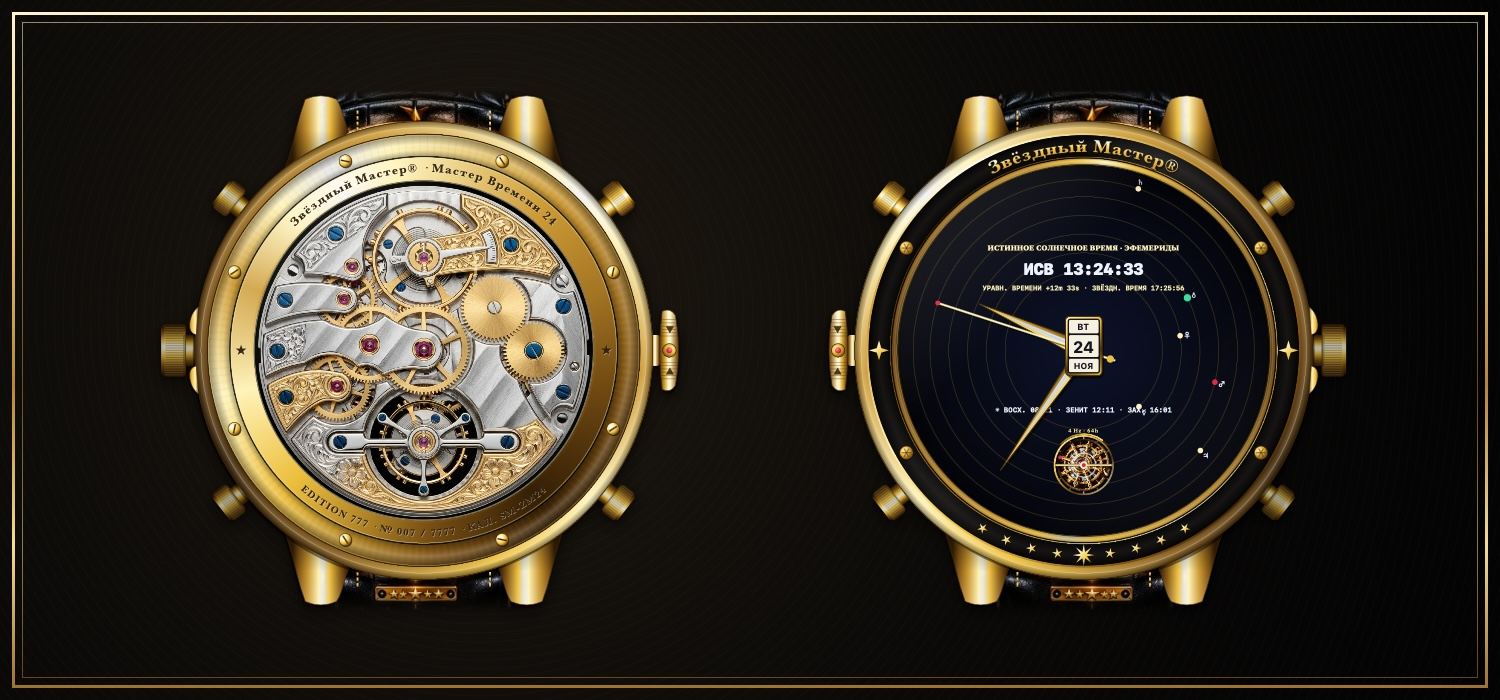
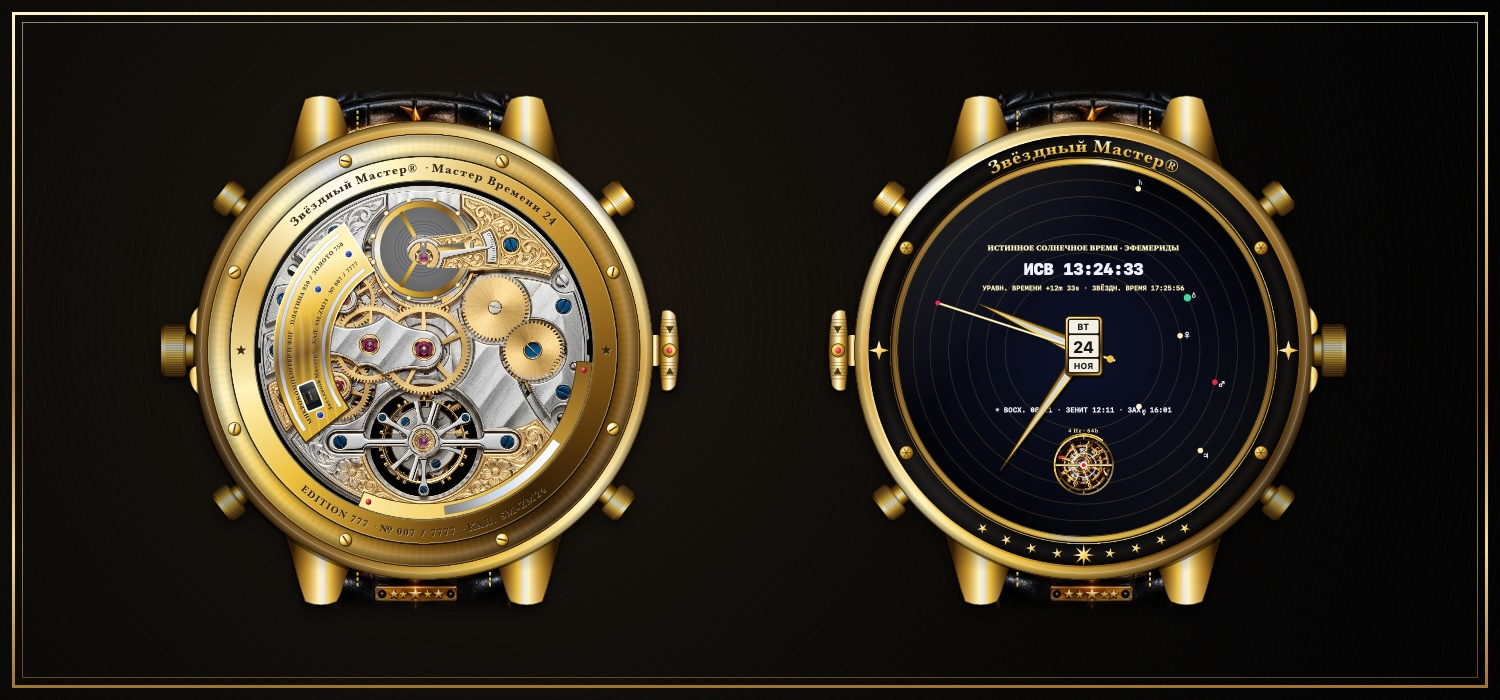
feat: v2.8.2 (Build 36) – living self-winding movement, microcomputer plate, flip with case depth

Changed region(s): [[0.184, 0.27, 0.3987, 0.75]]

diff --git a/README.ru.md b/README.ru.md
@@ -8,7 +8,7 @@
 <h3 align="center"><i>24-часовые аналоговые гибридные часы</i> · Часы гиперлюкс-класса для рабочего стола macOS</h3>
 
 <p align="center">
-  <a href="https://github.com/SonnerStudio/SternenMeister-ZeitMeister24-Widget/releases/latest/download/Zeitmeister24-Widget-macOS.zip"><img src="https://img.shields.io/badge/Скачать-v2.8.1-d4af37?style=for-the-badge&labelColor=0b0a08" alt="Скачать"></a>
+  <a href="https://github.com/SonnerStudio/SternenMeister-ZeitMeister24-Widget/releases/latest/download/Zeitmeister24-Widget-macOS.zip"><img src="https://img.shields.io/badge/Скачать-v2.8.2-d4af37?style=for-the-badge&labelColor=0b0a08" alt="Скачать"></a>
   <a href="https://github.com/SonnerStudio/SternenMeister-ZeitMeister24-Widget/releases/latest"><img src="https://img.shields.io/badge/Примечания%20к%20выпуску-GitHub-e5e4e2?style=for-the-badge&labelColor=0b0a08" alt="Примечания к выпуску"></a>
   <img src="https://img.shields.io/badge/macOS-14%2B-c9a14a?style=for-the-badge&labelColor=0b0a08" alt="macOS 14+">
   <img src="https://img.shields.io/badge/Editions-9-e5e4e2?style=for-the-badge&labelColor=0b0a08" alt="9">
@@ -84,7 +84,7 @@
 
 ## ✦ Задняя крышка и космос
 
-Кнопка на 8 ч открывает механизм: платина 950 и золото 750 с рубинами и воронёными винтами. Режим «Космос» показывает истинное солнечное время, уравнение времени, звёздное время и движение планет.
+Кнопка на 8 ч открывает механизм: платина 950 и золото 750 с рубинами и воронёными винтами. Режим «Космос» показывает истинное солнечное время, уравнение времени, звёздное время и движение планет. Механизм живёт: баланс колеблется с частотой 4 Гц над «дышащей» спиралью Бреге, клетка турбийона совершает оборот за 60 секунд, колёсная передача находится в зацеплении. **Периферийный ротор** из золота 22 карат с грузом из платины 950 заводит часы по краю механизма, не закрывая обзор. Гравированная золотая платина с «женевскими волнами», платиновыми вставками и сапфировым окном закрывает микрокомпьютер. При повороте часы показывают полную толщину корпуса.
 
 <p align="center"><img src="assets/readme/caseback-ru.jpg" width="100%" alt="Задняя крышка и космос"></p>
 
@@ -122,7 +122,7 @@
 
 Для погоды, давления, пути Солнца и Луны и пейзажа ваше **приблизительное местоположение** передаётся в [Open-Meteo](https://open-meteo.com) (погода, модель высот, климатический архив) и в службу геолокации Apple. macOS запрашивает доступ к геолокации. Без него часы используют часовой пояс и показывают открытую равнину.
 
-## ✦ Новое в версии 2.8.0
+## ✦ Новое в версии 2.8.2
 
 - ✦ Полностью новый нарисованный корпус с гравировкой марки издания на ободе
 - ✦ Качель на 9 ч и новая логика управления: слева навигация, справа действие

diff --git a/README.ar.md b/README.ar.md
@@ -8,7 +8,7 @@
 <h3 align="center"><i>ساعة هجينة تناظرية بنظام 24 ساعة</i> · ساعة فائقة الفخامة لسطح مكتب macOS</h3>
 
 <p align="center">
-  <a href="https://github.com/SonnerStudio/SternenMeister-ZeitMeister24-Widget/releases/latest/download/Zeitmeister24-Widget-macOS.zip"><img src="https://img.shields.io/badge/تنزيل-v2.8.1-d4af37?style=for-the-badge&labelColor=0b0a08" alt="تنزيل"></a>
+  <a href="https://github.com/SonnerStudio/SternenMeister-ZeitMeister24-Widget/releases/latest/download/Zeitmeister24-Widget-macOS.zip"><img src="https://img.shields.io/badge/تنزيل-v2.8.2-d4af37?style=for-the-badge&labelColor=0b0a08" alt="تنزيل"></a>
   <a href="https://github.com/SonnerStudio/SternenMeister-ZeitMeister24-Widget/releases/latest"><img src="https://img.shields.io/badge/ملاحظات%20الإصدار-GitHub-e5e4e2?style=for-the-badge&labelColor=0b0a08" alt="ملاحظات الإصدار"></a>
   <img src="https://img.shields.io/badge/macOS-14%2B-c9a14a?style=for-the-badge&labelColor=0b0a08" alt="macOS 14+">
   <img src="https://img.shields.io/badge/Editions-9-e5e4e2?style=for-the-badge&labelColor=0b0a08" alt="9">
@@ -86,7 +86,7 @@
 
 ## ✦ الغطاء الخلفي والكون
 
-يكشف زر الساعة 8 عن الآلية: بلاتين 950 وذهب 750 مع الياقوت والبراغي المزرقة. ويعرض وضع الكون التوقيت الشمسي الحقيقي ومعادلة الزمن والزمن النجمي وحركة الكواكب.
+يكشف زر الساعة 8 عن الآلية: بلاتين 950 وذهب 750 مع الياقوت والبراغي المزرقة. ويعرض وضع الكون التوقيت الشمسي الحقيقي ومعادلة الزمن والزمن النجمي وحركة الكواكب. الآلية حيّة: يتأرجح الميزان بتردد 4 هرتز فوق نابض بريغيه المتنفّس، ويدور قفص التوربيون دورة كل 60 ثانية، وتتعاشق التروس. **دوّار طرفي** من ذهب عيار 22 بكتلة من البلاتين 950 يعبّئ الساعة تلقائيًا عند حافة الآلية دون أن يحجب الرؤية. وتغطي لوحة ذهبية منقوشة بتموجات جنيف ومطعّمة بالبلاتين ونافذة من الياقوت الحاسوبَ الدقيق. وعند قلبها تُظهر الساعة كامل سماكة علبتها.
 
 <p align="center"><img src="assets/readme/caseback-ar.jpg" width="100%" alt="الغطاء الخلفي والكون"></p>
 
@@ -124,7 +124,7 @@
 
 للطقس وضغط الهواء ومسار الشمس والقمر والمشهد، يُرسَل **موقعك التقريبي** إلى [Open-Meteo](https://open-meteo.com) (الطقس ونموذج الارتفاع وأرشيف المناخ) وإلى خدمة الموقع لدى Apple. يطلب macOS إذن الموقع؛ ومن دونه تعمل الساعة وفق المنطقة الزمنية وتعرض أرضًا مفتوحة.
 
-## ✦ الجديد في الإصدار 2.8.0
+## ✦ الجديد في الإصدار 2.8.2
 
 - ✦ علبة جديدة كليًا مرسومة مع نقش اسم علامة الإصدار على الحافة
 - ✦ مفتاح متأرجح عند الساعة 9 ومنطق تحكم جديد: التنقل يسارًا والتنفيذ يمينًا

diff --git a/README.he.md b/README.he.md
@@ -8,7 +8,7 @@
 <h3 align="center"><i>שעון היברידי אנלוגי 24 שעות</i> · שעון יוקרה-על לשולחן העבודה של macOS</h3>
 
 <p align="center">
-  <a href="https://github.com/SonnerStudio/SternenMeister-ZeitMeister24-Widget/releases/latest/download/Zeitmeister24-Widget-macOS.zip"><img src="https://img.shields.io/badge/הורדה-v2.8.1-d4af37?style=for-the-badge&labelColor=0b0a08" alt="הורדה"></a>
+  <a href="https://github.com/SonnerStudio/SternenMeister-ZeitMeister24-Widget/releases/latest/download/Zeitmeister24-Widget-macOS.zip"><img src="https://img.shields.io/badge/הורדה-v2.8.2-d4af37?style=for-the-badge&labelColor=0b0a08" alt="הורדה"></a>
   <a href="https://github.com/SonnerStudio/SternenMeister-ZeitMeister24-Widget/releases/latest"><img src="https://img.shields.io/badge/הערות%20גרסה-GitHub-e5e4e2?style=for-the-badge&labelColor=0b0a08" alt="הערות גרסה"></a>
   <img src="https://img.shields.io/badge/macOS-14%2B-c9a14a?style=for-the-badge&labelColor=0b0a08" alt="macOS 14+">
   <img src="https://img.shields.io/badge/Editions-9-e5e4e2?style=for-the-badge&labelColor=0b0a08" alt="9">
@@ -86,7 +86,7 @@
 
 ## ✦ צד אחורי וקוסמוס
 
-לחצן 8 חושף את המנגנון: פלטינה 950 וזהב 750 עם אבני אודם וברגים כחולים. מצב קוסמוס מציג זמן שמש אמיתי, משוואת הזמן, זמן כוכבי ותנועת כוכבי הלכת.
+לחצן 8 חושף את המנגנון: פלטינה 950 וזהב 750 עם אבני אודם וברגים כחולים. מצב קוסמוס מציג זמן שמש אמיתי, משוואת הזמן, זמן כוכבי ותנועת כוכבי הלכת. המנגנון חי: גלגל האיזון נע ב־4 הרץ מעל קפיץ ברגה הנושם, כלוב הטורביון מסתובב פעם ב־60 שניות ומערכת הגלגלים משתלבת. **רוטור היקפי** מזהב 22 קראט עם משקולת מפלטינה 950 מותח את השעון בעצמו בשולי המנגנון בלי להסתיר את המבט. לוח זהב חרוט עם פסי ז׳נבה, שיבוצי פלטינה וחלון ספיר מכסה את המיקרו־מחשב. בעת ההיפוך מציג השעון את מלוא עובי התיבה.
 
 <p align="center"><img src="assets/readme/caseback-he.jpg" width="100%" alt="צד אחורי וקוסמוס"></p>
 
@@ -124,7 +124,7 @@
 
 לצורך מזג אוויר, לחץ אוויר, מסלול השמש והירח והנוף, **המיקום המשוער** שלך נשלח אל [Open-Meteo](https://open-meteo.com) (מזג אוויר, מודל גובה, ארכיון אקלים) ואל שירות המיקום של Apple. macOS מבקש הרשאת מיקום; בלעדיה השעון פועל לפי אזור הזמן ומציג שטח פתוח.
 
-## ✦ חדש בגרסה 2.8.0
+## ✦ חדש בגרסה 2.8.2
 
 - ✦ תיבה חדשה לגמרי ומצוירת עם חריטת שם המהדורה על השפה
 - ✦ מתג נדנדה ב־9 והיגיון הפעלה חדש: ניווט משמאל, פעולה מימין

diff --git a/README.fr.md b/README.fr.md
@@ -8,7 +8,7 @@
 <h3 align="center"><i>Montre hybride analogique 24 heures</i> · La montre d’hyper-luxe pour le bureau macOS</h3>
 
 <p align="center">
-  <a href="https://github.com/SonnerStudio/SternenMeister-ZeitMeister24-Widget/releases/latest/download/Zeitmeister24-Widget-macOS.zip"><img src="https://img.shields.io/badge/Télécharger-v2.8.1-d4af37?style=for-the-badge&labelColor=0b0a08" alt="Télécharger"></a>
+  <a href="https://github.com/SonnerStudio/SternenMeister-ZeitMeister24-Widget/releases/latest/download/Zeitmeister24-Widget-macOS.zip"><img src="https://img.shields.io/badge/Télécharger-v2.8.2-d4af37?style=for-the-badge&labelColor=0b0a08" alt="Télécharger"></a>
   <a href="https://github.com/SonnerStudio/SternenMeister-ZeitMeister24-Widget/releases/latest"><img src="https://img.shields.io/badge/Notes%20de%20version-GitHub-e5e4e2?style=for-the-badge&labelColor=0b0a08" alt="Notes de version"></a>
   <img src="https://img.shields.io/badge/macOS-14%2B-c9a14a?style=for-the-badge&labelColor=0b0a08" alt="macOS 14+">
   <img src="https://img.shields.io/badge/Editions-9-e5e4e2?style=for-the-badge&labelColor=0b0a08" alt="9">
@@ -84,7 +84,7 @@ Le soleil et la lune occupent leur position calculée et parcourent leur arc à 
 
 ## ✦ Fond de boîte & cosmos
 
-Le poussoir de 8 h dévoile le mouvement : platine 950 et or 750, rubis et vis bleuies. Le mode Cosmos affiche temps solaire vrai, équation du temps, temps sidéral et course des planètes.
+Le poussoir de 8 h dévoile le mouvement : platine 950 et or 750, rubis et vis bleuies. Le mode Cosmos affiche temps solaire vrai, équation du temps, temps sidéral et course des planètes. Le mouvement est vivant : le balancier oscille à 4 Hz au-dessus de son spiral Breguet qui respire, la cage du tourbillon fait un tour en 60 secondes et le rouage s’engrène. Un **rotor périphérique** en or 22 carats avec masse en platine 950 remonte la montre en bordure du mouvement sans masquer la vue. Une plaque en or gravée, ornée de Côtes de Genève, d’incrustations de platine et d’un hublot saphir, recouvre le micro-ordinateur. En se retournant, la montre révèle toute l’épaisseur de sa boîte.
 
 <p align="center"><img src="assets/readme/caseback-fr.jpg" width="100%" alt="Fond de boîte & cosmos"></p>
 
@@ -122,7 +122,7 @@ Chaque édition porte son nom de marque gravé sur la carrure et parle sa langue
 
 Pour la météo, la pression, la course du soleil et de la lune et le paysage, votre **position approximative** est transmise à [Open-Meteo](https://open-meteo.com) (météo, modèle d’altitude, archives climatiques) et au service de localisation d’Apple. macOS demande l’autorisation de localisation. Sans elle, la montre utilise le fuseau horaire et affiche un paysage ouvert.
 
-## ✦ Nouveautés de la version 2.8.0
+## ✦ Nouveautés de la version 2.8.2
 
 - ✦ Boîte entièrement nouvelle et dessinée, avec le nom de l’édition gravé sur la carrure
 - ✦ Bascule à 9 h et nouvelle logique de commande : naviguer à gauche, agir à droite

diff --git a/README.nl.md b/README.nl.md
@@ -8,7 +8,7 @@
 <h3 align="center"><i>24-uurs analoog hybride horloge</i> · Het hyperluxe uurwerk voor het macOS-bureaublad</h3>
 
 <p align="center">
-  <a href="https://github.com/SonnerStudio/SternenMeister-ZeitMeister24-Widget/releases/latest/download/Zeitmeister24-Widget-macOS.zip"><img src="https://img.shields.io/badge/Downloaden-v2.8.1-d4af37?style=for-the-badge&labelColor=0b0a08" alt="Downloaden"></a>
+  <a href="https://github.com/SonnerStudio/SternenMeister-ZeitMeister24-Widget/releases/latest/download/Zeitmeister24-Widget-macOS.zip"><img src="https://img.shields.io/badge/Downloaden-v2.8.2-d4af37?style=for-the-badge&labelColor=0b0a08" alt="Downloaden"></a>
   <a href="https://github.com/SonnerStudio/SternenMeister-ZeitMeister24-Widget/releases/latest"><img src="https://img.shields.io/badge/Release--notities-GitHub-e5e4e2?style=for-the-badge&labelColor=0b0a08" alt="Release-notities"></a>
   <img src="https://img.shields.io/badge/macOS-14%2B-c9a14a?style=for-the-badge&labelColor=0b0a08" alt="macOS 14+">
   <img src="https://img.shields.io/badge/Editions-9-e5e4e2?style=for-the-badge&labelColor=0b0a08" alt="9">
@@ -84,7 +84,7 @@ Zon en maan staan op hun berekende plek aan de hemel en trekken hun boog met nat
 
 ## ✦ Achterkant & kosmos
 
-De drukker bij 8 uur toont het uurwerk: platina 950 en goud 750 met robijnen en gebruineerde schroeven. De kosmosmodus toont ware zonnetijd, tijdvereffening, sterrentijd en de loop van de planeten.
+De drukker bij 8 uur toont het uurwerk: platina 950 en goud 750 met robijnen en gebruineerde schroeven. De kosmosmodus toont ware zonnetijd, tijdvereffening, sterrentijd en de loop van de planeten. Het uurwerk leeft: de balans slingert met 4 Hz boven zijn ademende Breguet-spiraal, de tourbillonkooi draait in 60 seconden één keer rond en het raderwerk grijpt in elkaar. Een **perifere rotor** van 22-karaats goud met een massa van platina 950 windt het horloge aan de rand van het uurwerk zelf op, zonder het zicht te belemmeren. Een gegraveerde gouden plaat met Côtes de Genève, platina-inlegwerk en een saffiervenster bedekt de microcomputer. Bij het omdraaien toont het horloge zijn volle kastdikte.
 
 <p align="center"><img src="assets/readme/caseback-nl.jpg" width="100%" alt="Achterkant & kosmos"></p>
 
@@ -122,7 +122,7 @@ Elke editie draagt haar merknaam gegraveerd op de kastrand en spreekt haar taal 
 
 Voor weer, luchtdruk, de baan van zon en maan en het landschap wordt je **globale locatie** gestuurd naar [Open-Meteo](https://open-meteo.com) (weer, hoogtemodel, klimaatarchief) en naar de locatiedienst van Apple. macOS vraagt om locatietoegang; zonder toegang werkt het horloge met de tijdzone en toont het open land.
 
-## ✦ Nieuw in versie 2.8.0
+## ✦ Nieuw in versie 2.8.2
 
 - ✦ Volledig nieuwe, getekende kast met de merknaam van de editie gegraveerd op de rand
 - ✦ Kantelschakelaar bij 9 uur en nieuwe bedieningslogica: links navigeren, rechts handelen

diff --git a/README.md b/README.md
@@ -8,7 +8,7 @@
 <h3 align="center"><i>24-Stunden-Analoguhr-Hybrid</i> · Die Hyper-Luxus-Uhr für den macOS-Schreibtisch</h3>
 
 <p align="center">
-  <a href="https://github.com/SonnerStudio/SternenMeister-ZeitMeister24-Widget/releases/latest/download/Zeitmeister24-Widget-macOS.zip"><img src="https://img.shields.io/badge/Herunterladen-v2.8.1-d4af37?style=for-the-badge&labelColor=0b0a08" alt="Herunterladen"></a>
+  <a href="https://github.com/SonnerStudio/SternenMeister-ZeitMeister24-Widget/releases/latest/download/Zeitmeister24-Widget-macOS.zip"><img src="https://img.shields.io/badge/Herunterladen-v2.8.2-d4af37?style=for-the-badge&labelColor=0b0a08" alt="Herunterladen"></a>
   <a href="https://github.com/SonnerStudio/SternenMeister-ZeitMeister24-Widget/releases/latest"><img src="https://img.shields.io/badge/Release--Notizen-GitHub-e5e4e2?style=for-the-badge&labelColor=0b0a08" alt="Release-Notizen"></a>
   <img src="https://img.shields.io/badge/macOS-14%2B-c9a14a?style=for-the-badge&labelColor=0b0a08" alt="macOS 14+">
   <img src="https://img.shields.io/badge/Editions-9-e5e4e2?style=for-the-badge&labelColor=0b0a08" alt="9">
@@ -84,7 +84,7 @@ Sonne und Mond stehen an ihrer berechneten Himmelsposition und ziehen in natürl
 
 ## ✦ Rückseite & Kosmos
 
-Der Drücker bei 8 Uhr öffnet den Blick auf das Uhrwerk: Platin 950 und Gold 750 mit Rubinen und gebläuten Schrauben. Der Modus Kosmos zeigt wahre Sonnenzeit, Zeitgleichung, Sternzeit und den Lauf der Planeten.
+Der Drücker bei 8 Uhr öffnet den Blick auf das Uhrwerk: Platin 950 und Gold 750 mit Rubinen und gebläuten Schrauben. Der Modus Kosmos zeigt wahre Sonnenzeit, Zeitgleichung, Sternzeit und den Lauf der Planeten. Das Werk lebt: Die Unruh schwingt mit 4 Hz über ihrer atmenden Breguet-Spirale, der Tourbillon-Käfig dreht in 60 Sekunden einmal, das Räderwerk greift ineinander. Ein **Peripherie-Rotor** aus 22-Karat-Gold mit Platin-950-Schwungmasse zieht die Uhr am Werkrand selbst auf, ohne den Blick zu verstellen. Über dem Mikrocomputer liegt eine gravierte Goldplatte mit Genfer Streifen, Platineinlagen und Saphirfenster. Beim Wenden zeigt die Uhr ihre volle Gehäusetiefe.
 
 <p align="center"><img src="assets/readme/caseback-de.jpg" width="100%" alt="Rückseite & Kosmos"></p>
 
@@ -122,7 +122,7 @@ Jede Edition trägt ihren Markennamen graviert auf dem Gehäuserand und spricht 
 
 Für Wetter, Luftdruck, Sonnen- und Mondlauf und die Landschaft wird der **ungefähre Standort** an [Open-Meteo](https://open-meteo.com) (Wetter, Höhenmodell, Klimaarchiv) und an den Apple-Ortsdienst übermittelt. macOS fragt dafür nach der Standortfreigabe. Ohne Freigabe arbeitet die Uhr mit der Zeitzone und zeigt offenes Land.
 
-## ✦ Neu in Version 2.8.0
+## ✦ Neu in Version 2.8.2
 
 - ✦ Völlig neues, gezeichnetes Gehäuse mit Markengravur der Edition auf dem Rand
 - ✦ Kipp-Element bei 9 Uhr und neue Bedienlogik: links navigieren, rechts handeln

diff --git a/README.en.md b/README.en.md
@@ -8,7 +8,7 @@
 <h3 align="center"><i>24-Hour Analogue Hybrid Watch</i> · The hyper-luxury timepiece for the macOS desktop</h3>
 
 <p align="center">
-  <a href="https://github.com/SonnerStudio/SternenMeister-ZeitMeister24-Widget/releases/latest/download/Zeitmeister24-Widget-macOS.zip"><img src="https://img.shields.io/badge/Download-v2.8.1-d4af37?style=for-the-badge&labelColor=0b0a08" alt="Download"></a>
+  <a href="https://github.com/SonnerStudio/SternenMeister-ZeitMeister24-Widget/releases/latest/download/Zeitmeister24-Widget-macOS.zip"><img src="https://img.shields.io/badge/Download-v2.8.2-d4af37?style=for-the-badge&labelColor=0b0a08" alt="Download"></a>
   <a href="https://github.com/SonnerStudio/SternenMeister-ZeitMeister24-Widget/releases/latest"><img src="https://img.shields.io/badge/Release%20notes-GitHub-e5e4e2?style=for-the-badge&labelColor=0b0a08" alt="Release notes"></a>
   <img src="https://img.shields.io/badge/macOS-14%2B-c9a14a?style=for-the-badge&labelColor=0b0a08" alt="macOS 14+">
   <img src="https://img.shields.io/badge/Editions-9-e5e4e2?style=for-the-badge&labelColor=0b0a08" alt="9">
@@ -84,7 +84,7 @@ Sun and moon stand at their computed position in the sky and travel their arc at
 
 ## ✦ Case back & cosmos
 
-The 8 o’clock pusher reveals the movement: platinum 950 and gold 750 with rubies and blued screws. The Cosmos mode shows true solar time, equation of time, sidereal time and the motion of the planets.
+The 8 o’clock pusher reveals the movement: platinum 950 and gold 750 with rubies and blued screws. The Cosmos mode shows true solar time, equation of time, sidereal time and the motion of the planets. The movement is alive: the balance swings at 4 Hz above its breathing Breguet hairspring, the tourbillon cage turns once every 60 seconds and the gear train meshes. A **peripheral rotor** in 22-carat gold with a platinum 950 weight winds the watch around the rim of the movement without blocking the view. An engraved gold plate with Côtes de Genève, platinum inlays and a sapphire window covers the microcomputer. When turned over, the watch shows its full case depth.
 
 <p align="center"><img src="assets/readme/caseback-en.jpg" width="100%" alt="Case back & cosmos"></p>
 
@@ -122,7 +122,7 @@ Each edition carries its brand name engraved on the case rim and speaks its lang
 
 For weather, air pressure, the paths of sun and moon and the landscape, your **approximate location** is sent to [Open-Meteo](https://open-meteo.com) (weather, elevation model, climate archive) and to Apple’s location service. macOS asks for location access. Without it the watch uses your time zone and shows open land.
 
-## ✦ New in version 2.8.0
+## ✦ New in version 2.8.2
 
 - ✦ Completely new, drawn case with the edition’s brand engraved on the rim
 - ✦ Rocker at 9 o’clock and new control logic: navigate on the left, act on the right

diff --git a/README.yi.md b/README.yi.md
@@ -8,7 +8,7 @@
 <h3 align="center"><i>24-shoen analog-hibrid zeyger</i> · Der hiper-luksus zeyger far dem macOS-shraybtish</h3>
 
 <p align="center">
-  <a href="https://github.com/SonnerStudio/SternenMeister-ZeitMeister24-Widget/releases/latest/download/Zeitmeister24-Widget-macOS.zip"><img src="https://img.shields.io/badge/Aropnemen-v2.8.1-d4af37?style=for-the-badge&labelColor=0b0a08" alt="Aropnemen"></a>
+  <a href="https://github.com/SonnerStudio/SternenMeister-ZeitMeister24-Widget/releases/latest/download/Zeitmeister24-Widget-macOS.zip"><img src="https://img.shields.io/badge/Aropnemen-v2.8.2-d4af37?style=for-the-badge&labelColor=0b0a08" alt="Aropnemen"></a>
   <a href="https://github.com/SonnerStudio/SternenMeister-ZeitMeister24-Widget/releases/latest"><img src="https://img.shields.io/badge/Notitsn%20tsu%20der%20oysgabe-GitHub-e5e4e2?style=for-the-badge&labelColor=0b0a08" alt="Notitsn tsu der oysgabe"></a>
   <img src="https://img.shields.io/badge/macOS-14%2B-c9a14a?style=for-the-badge&labelColor=0b0a08" alt="macOS 14+">
   <img src="https://img.shields.io/badge/Editions-9-e5e4e2?style=for-the-badge&labelColor=0b0a08" alt="9">
@@ -84,7 +84,7 @@ Di zun un di levone shteyen oyf zeyer oysgerekhntn ort un geyen zeyer boygn in n
 
 ## ✦ Hinter-zayt & kosmos
 
-Der druker bay 8 efnt dem mekhanizm: platin 950 un gold 750 mit rubinen un bloye shroyfn. Der kosmos-modus vayzt emese zuntsayt, tsayt-glaykhung, shtern-tsayt un di planetn.
+Der druker bay 8 efnt dem mekhanizm: platin 950 un gold 750 mit rubinen un bloye shroyfn. Der kosmos-modus vayzt emese zuntsayt, tsayt-glaykhung, shtern-tsayt un di planetn. Der mekhanizm lebt: di unru shoklt zikh mit 4 Hz iber ir otemdiker Breguet-shpiral, der turbiyon-shtayg dreyt zikh eyn mol in 60 sekundes. A **periferisher rotor** fun 22-karat gold mit a platin-950 vog tsit dem zeyger aleyn oyf. A gegraveyrte gold-plate mit platin-ayngelegtsn dekt dem mikrokompyuter. Bay dem iberdreyen vayzt der zeyger zayn fule tifkayt.
 
 <p align="center"><img src="assets/readme/caseback-yi_latn.jpg" width="100%" alt="Hinter-zayt & kosmos"></p>
 
@@ -122,7 +122,7 @@ Yede oysgabe trogt ir mark-nomen gegraveyrt oyfn rand fun kestl un redt ir shpra
 
 Far veter, luftdruk, dem gang fun zun un levone un di landshaft vert dayn **untergefeyrer ort** geshikt tsu [Open-Meteo](https://open-meteo.com) un tsu Apple’s ort-dinst. macOS fregt far a derloybenish; on dem arbet der zeyger mit der tsaytzone.
 
-## ✦ Nay in versye 2.8.0
+## ✦ Nay in versye 2.8.2
 
 - ✦ A gants nay gemoltn kestl mit dem mark-nomen fun der oysgabe gegraveyrt oyfn rand
 - ✦ Vig-shalter bay 9 un a naye bedinung-logik: links navigirn, rekhts handlen

diff --git a/README.zh.md b/README.zh.md
@@ -8,7 +8,7 @@
 <h3 align="center"><i>24小时指针混合腕表</i> · macOS 桌面上的超奢华腕表</h3>
 
 <p align="center">
-  <a href="https://github.com/SonnerStudio/SternenMeister-ZeitMeister24-Widget/releases/latest/download/Zeitmeister24-Widget-macOS.zip"><img src="https://img.shields.io/badge/下载-v2.8.1-d4af37?style=for-the-badge&labelColor=0b0a08" alt="下载"></a>
+  <a href="https://github.com/SonnerStudio/SternenMeister-ZeitMeister24-Widget/releases/latest/download/Zeitmeister24-Widget-macOS.zip"><img src="https://img.shields.io/badge/下载-v2.8.2-d4af37?style=for-the-badge&labelColor=0b0a08" alt="下载"></a>
   <a href="https://github.com/SonnerStudio/SternenMeister-ZeitMeister24-Widget/releases/latest"><img src="https://img.shields.io/badge/版本说明-GitHub-e5e4e2?style=for-the-badge&labelColor=0b0a08" alt="版本说明"></a>
   <img src="https://img.shields.io/badge/macOS-14%2B-c9a14a?style=for-the-badge&labelColor=0b0a08" alt="macOS 14+">
   <img src="https://img.shields.io/badge/Editions-9-e5e4e2?style=for-the-badge&labelColor=0b0a08" alt="9">
@@ -84,7 +84,7 @@
 
 ## ✦ 后盖与宇宙
 
-8 点按钮可展示机芯：950 铂金与 750 黄金，镶嵌红宝石与烤蓝螺丝。宇宙模式显示真太阳时、时差、恒星时与行星运行。
+8 点按钮可展示机芯：950 铂金与 750 黄金，镶嵌红宝石与烤蓝螺丝。宇宙模式显示真太阳时、时差、恒星时与行星运行。 机芯栩栩如生：摆轮在会呼吸的宝玑游丝上以 4 Hz 摆动，陀飞轮框架每 60 秒旋转一周，轮系相互啮合。22K 金配 950 铂金摆锤的**外缘自动陀**沿机芯边缘自动上链，不遮挡视线。微电脑上方覆有一块镌刻金板，饰以日内瓦波纹、铂金镶嵌与蓝宝石小窗。翻转时，腕表展现完整的表壳厚度。
 
 <p align="center"><img src="assets/readme/caseback-zh.jpg" width="100%" alt="后盖与宇宙"></p>
 
@@ -122,7 +122,7 @@
 
 为获取天气、气压、日月轨迹与风景，您的**大致位置**会发送至 [Open-Meteo](https://open-meteo.com)（天气、海拔模型、气候档案）及 Apple 定位服务。macOS 会请求定位授权；若未授权，腕表将依据时区显示开阔原野。
 
-## ✦ 2.8.0 版新内容
+## ✦ 2.8.2 版新内容
 
 - ✦ 全新绘制的表壳，表圈镌刻各版本品牌名
 - ✦ 9 点位置的摇杆与全新操作逻辑：左侧导航，右侧执行
